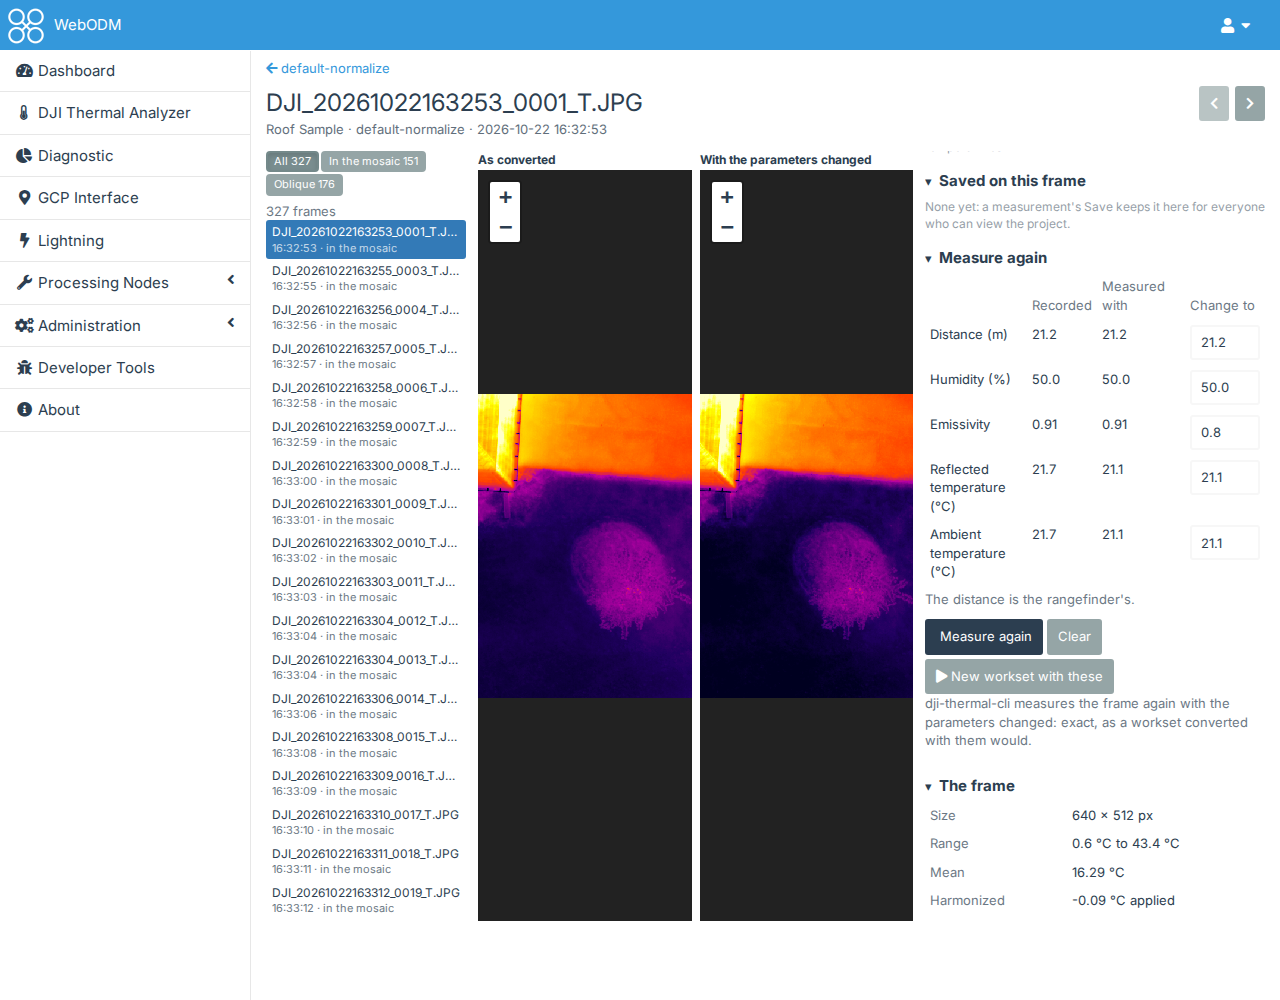
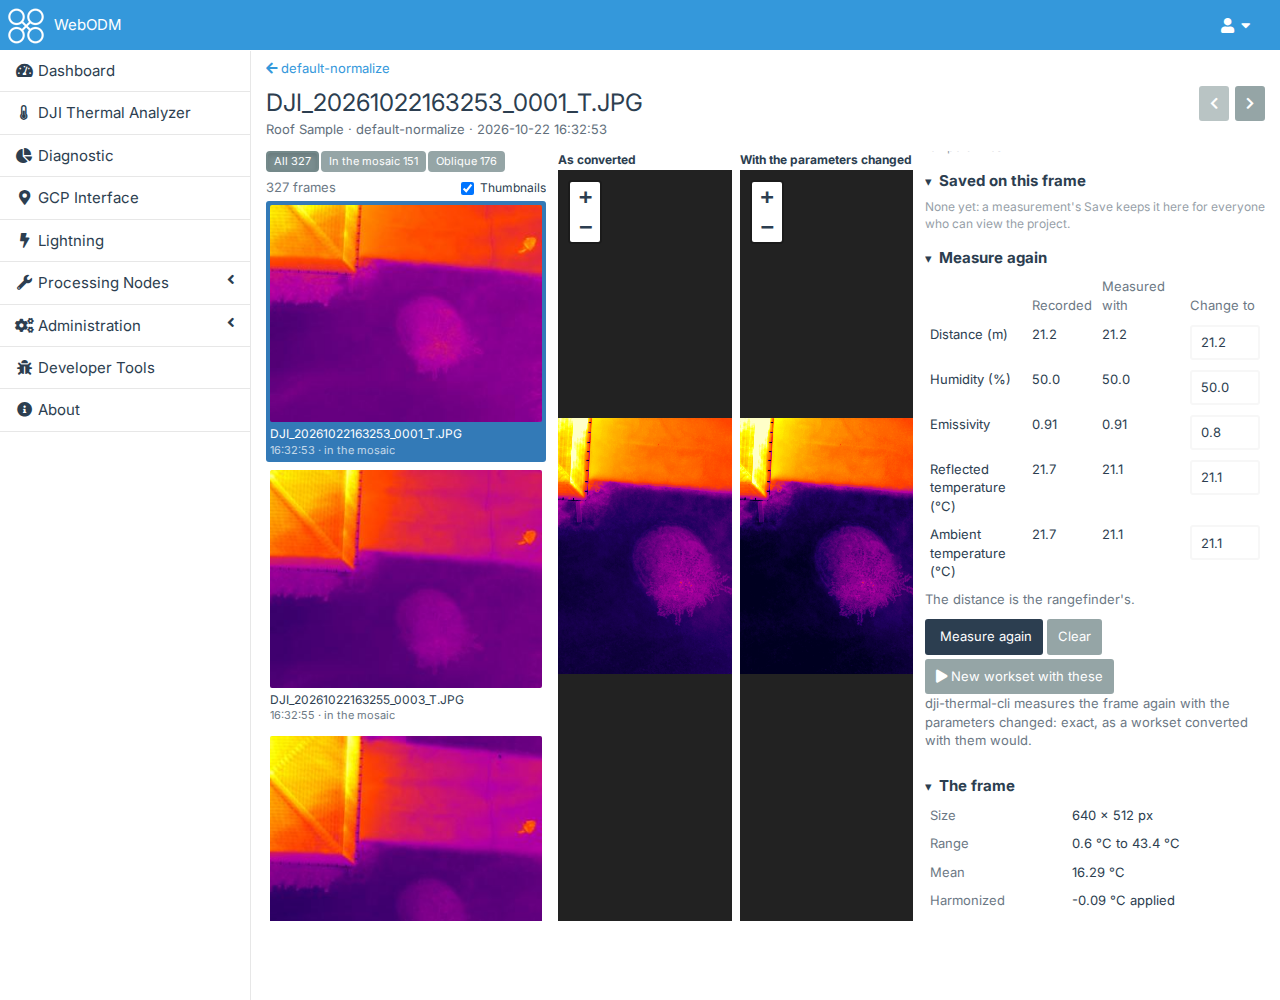
Frame page: large thumbnails in the frames list, with a Thumbnails box to list names only
The list beside the frame shows each frame's picture across a wider column (280 px), from the dataset's thumbnail
endpoint at a new list size (?size=list, up to 320 px, cached beside the others), in the user's preferred DJI
palette, else the frame's own picture; loaded as the list scrolls. The Thumbnails box, on by default, is remembered
per browser. README, the worksets quickstart, the API page and the frame page's screenshots.

Changed region(s): [[0.1875, 0.124, 0.7188, 0.93]]

diff --git a/dji-thermal/public/frame.js b/dji-thermal/public/frame.js
@@ -29,6 +29,7 @@
     var DISTANCE_SOURCES = {rangefinder: "the rangefinder's", embedded: "the one the frame records", option: "the workset's"};
     // The list's choices once the mosaics placed frames: all of them, those in the mosaic and those left out
     var LISTS = [["", "All"], ["mosaic", "In the mosaic"], ["oblique", "Oblique"]];
+    var THUMBS_KEY = "thermalAnalyzer.frameThumbnails";    // the list's Thumbnails box, remembered per browser ("0": off)
 
     function inMosaic(f) { return f.mosaic !== null && f.mosaic !== undefined; }
 
@@ -70,9 +71,17 @@
         return m ? m[1] + "-" + m[2] + "-" + m[3] + " " + m[4] : "";
     }
 
+    // The thumbnails' URL, followed by a frame's path: the dataset's thumbnail of it, at the list's size, in the
+    // user's preferred DJI palette when they have one (else its embedded picture); a workset's frames even in a
+    // dataset never analyzed
+    function thumbsUrl(api, dataset, cid, palette) {
+        return api + "datasets/" + dataset + "/thumbnail?workset=" + encodeURIComponent(cid) + "&size=list&" +
+            (palette ? "palette=" + encodeURIComponent(palette) + "&" : "") + "file=";
+    }
+
     // The list beside the frame: the switch between lists once the mosaics placed frames (sizes: each list's count),
-    // and the frames, the one shown marked
-    function listHtml(frames, current, list, sizes, maxPitch, built) {
+    // the Thumbnails box, and the frames, the one shown marked, each with its thumbnail when thumbs (their URL) is given
+    function listHtml(frames, current, list, sizes, maxPitch, built, thumbs) {
         var out = "";
         if (sizes) {
             out += '<div class="ta-frame-lists" role="group" aria-label="Which frames">' + LISTS.map(function (l, i) {
@@ -80,11 +89,14 @@
                     (list === l[0] ? ' aria-pressed="true"' : "") + (sizes[i] ? "" : " disabled") + ">" + esc(l[1]) + " " + sizes[i] + "</button>";
             }).join("") + "</div>";
         }
-        out += '<div class="ta-message">' + core.count(frames.length, "frame", "frames") + "</div>";
+        out += '<div class="ta-frame-list-head"><span class="ta-message">' + core.count(frames.length, "frame", "frames") + "</span>" +
+            '<label class="ta-frame-thumbs-box"><input type="checkbox" data-thumbs' + (thumbs ? " checked" : "") + "> Thumbnails</label></div>";
         return out + '<ol class="ta-frame-items">' + frames.map(function (f) {
             var tag = frameTag(f, list, maxPitch, built), about = [timeText(f.time).slice(11), tag].filter(Boolean).join(" · ");
             return '<li><button type="button" data-path="' + esc(f.path) + '" title="' + esc(f.path + (tag ? " (" + tag + ")" : "")) + '"' +
-                (f.path === current ? ' aria-current="true"' : "") + ">" + esc(fileName(f.path)) +
+                (f.path === current ? ' aria-current="true"' : "") + ">" +
+                (thumbs ? '<img class="ta-frame-thumb" loading="lazy" alt="" src="' + esc(thumbs + encodeURIComponent(f.path)) + '">' : "") +
+                esc(fileName(f.path)) +
                 (about ? '<span class="ta-frame-item-about">' + esc(about) + "</span>" : "") + "</button></li>";
         }).join("") + "</ol>";
     }
@@ -357,6 +369,8 @@
         var csrf = (page.querySelector("input[name=csrfmiddlewaretoken]") || {}).value;
         var asked = new root.URLSearchParams((ctx.location || {}).search || "");
         var meta = null, all = [], list = asked.get("list") || "", frame = null;
+        var thumbsOn = true;
+        try { thumbsOn = !root.localStorage || root.localStorage.getItem(THUMBS_KEY) !== "0"; } catch (e) { thumbsOn = true; }
         // The frame as converted and with the changes: figures (info) and values (tiles), each pane's
         var infos = [null, null], tiles = [null, null], changes = {}, typed = {}, changeError = null, withChanges = false;
         var style = null, L = null, maps = [null, null], canvases = [null, null], overlays = [null, null], fitted = false;
@@ -637,7 +651,9 @@
         function showList() {
             var frames = shown(), built = all.some(inMosaic);
             var sizes = built ? LISTS.map(function (l) { return listFrames(all, l[0]).length; }) : null;
-            $("ta-frame-list").innerHTML = listHtml(frames, frame, list, sizes, meta.max_pitch, meta.built);
+            var thumbs = thumbsOn ? thumbsUrl(page.getAttribute("data-api"), dataset, cid, core.preferences().palette) : null;
+            $("ta-frame-list").innerHTML = listHtml(frames, frame, list, sizes, meta.max_pitch, meta.built, thumbs);
+            $("ta-frame-list").classList.toggle("ta-frame-list-thumbs", !!thumbs);
             scrollList();
             var i = frames.map(function (f) { return f.path; }).indexOf(frame);
             $("ta-frame-prev").disabled = i <= 0;
@@ -762,7 +778,9 @@
                              restyle: function () { recolour(); remeasure(); },
                              // A palette is the user's, everywhere (DJI's keys carry the viewer's prefix)
                              onPalette: function (key) {
-                                 core.savePalette(fetchFn, page.getAttribute("data-api"), csrf, key.replace(/^dji_/, "")).catch(function () {});
+                                 // the list's thumbnails follow it
+                                 core.savePalette(fetchFn, page.getAttribute("data-api"), csrf, key.replace(/^dji_/, ""))
+                                     .then(function () { if (thumbsOn) showList(); }, function () {});
                              }});
 
         $("ta-frame-list").addEventListener("click", function (e) {
@@ -776,6 +794,12 @@
                 return showList();
             }
             if (b.hasAttribute("data-path")) choose(b.getAttribute("data-path"));
+        });
+        $("ta-frame-list").addEventListener("change", function (e) {
+            if (!e.target.hasAttribute("data-thumbs")) return;
+            thumbsOn = e.target.checked;
+            try { if (root.localStorage) root.localStorage.setItem(THUMBS_KEY, thumbsOn ? "1" : "0"); } catch (err) { /* not kept */ }
+            showList();
         });
 
         $("ta-frame-prev").addEventListener("click", function () { step(-1); });
@@ -883,7 +907,7 @@
     }
 
     var api = {CHANGES: CHANGES, listFrames: listFrames, frameTag: frameTag, changesQuery: changesQuery, frameApiUrl: frameApiUrl,
-               listHtml: listHtml, changeStarts: changeStarts, readChanges: readChanges, changesTyped: changesTyped,
+               listHtml: listHtml, thumbsUrl: thumbsUrl, changeStarts: changeStarts, readChanges: readChanges, changesTyped: changesTyped,
                newWorksetUrl: newWorksetUrl, paramsHtml: paramsHtml, infoHtml: infoHtml, valueAt: valueAt, readoutHtml: readoutHtml,
                downloadHtml: downloadHtml, canvasOverlay: canvasOverlay, timeText: timeText, toPixels: toPixels, circlePixels: circlePixels,
                isothermLimits: isothermLimits, changesText: changesText, measureHtml: measureHtml, savedHtml: savedHtml, init: init};

diff --git a/dji-thermal/public/__tests__/frame.test.js b/dji-thermal/public/__tests__/frame.test.js
@@ -220,6 +220,32 @@ describe("the frame page", () => {
         expect(history.replaceState).toHaveBeenLastCalledWith(null, "", "?frame=c_T.JPG");
     });
 
+    it("shows each listed frame's thumbnail in the preferred DJI palette, until the Thumbnails box is cleared, remembered", async () => {
+        core.setPreferences({palette: "ironred"});
+        await start();
+        const thumbs = Array.from(document.querySelectorAll("#ta-frame-list img.ta-frame-thumb"));
+        expect(thumbs.map(i => i.getAttribute("src"))).toEqual(["a_T.JPG", "sub/b_T.JPG", "c_T.JPG"].map(p =>
+            "/api/plugins/dji-thermal/datasets/d1/thumbnail?workset=c1&size=list&palette=ironred&file=" + encodeURIComponent(p)));
+        expect(thumbs[0].getAttribute("loading")).toBe("lazy");
+        expect($("ta-frame-list").classList.contains("ta-frame-list-thumbs")).toBe(true);
+        const box = document.querySelector("#ta-frame-list [data-thumbs]");
+        box.checked = false;
+        box.dispatchEvent(new Event("change", {bubbles: true}));
+        expect(document.querySelectorAll("#ta-frame-list img").length).toBe(0);
+        expect($("ta-frame-list").classList.contains("ta-frame-list-thumbs")).toBe(false);
+        expect(document.querySelector("#ta-frame-list [data-thumbs]").checked).toBe(false);
+        // Names only on the next visit too; without a preferred palette, each frame's embedded picture
+        core.setPreferences({palette: null});
+        document.body.innerHTML = page();
+        await start();
+        expect(document.querySelectorAll("#ta-frame-list img").length).toBe(0);
+        window.localStorage.clear();
+        document.body.innerHTML = page();
+        await start();
+        expect(document.querySelector("#ta-frame-list img").getAttribute("src")).toBe(
+            "/api/plugins/dji-thermal/datasets/d1/thumbnail?workset=c1&size=list&file=a_T.JPG");
+    });
+
     it("scrolls the list to the frame shown once the page shows it, centred, and leaves it when it's in view", async () => {
         // The list 100 px high; the frame shown 20 px high, 400 px down it, until scrolled
         const box = $("ta-frame-list");

diff --git a/dji-thermal/public/analyzer.css b/dji-thermal/public/analyzer.css
@@ -359,6 +359,15 @@
 .ta-frame .ta-frame-items button:hover{ background: rgba(128, 128, 128, .15); }
 .ta-frame .ta-frame-items button[aria-current=true]{ background: #337ab7; color: #fff; }
 .ta-frame .ta-frame-item-about{ display: block; opacity: .7; font-size: 11px; }
+/* With thumbnails: a wider list, each frame's picture across it (room kept for it before it loads, DJI's 640×512) */
+.ta-frame .ta-frame-list.ta-frame-list-thumbs{ flex-basis: 280px; }
+.ta-frame .ta-frame-list-head{ display: flex; align-items: center; justify-content: space-between; gap: 6px; margin-bottom: 4px; }
+.ta-frame .ta-frame-list-head .ta-message{ margin: 0; }
+.ta-frame .ta-frame-thumbs-box{ font-weight: normal; margin: 0; white-space: nowrap; }
+.ta-frame .ta-frame-thumbs-box input{ margin: 0 3px 0 0; vertical-align: middle; }
+.ta-frame .ta-frame-list-thumbs .ta-frame-items button{ padding: 4px; margin-bottom: 4px; }
+.ta-frame .ta-frame-thumb{ display: block; width: 100%; aspect-ratio: 5 / 4; object-fit: contain; margin-bottom: 3px;
+    background: rgba(128, 128, 128, .15); border-radius: 2px; }
 .ta-frame .ta-frame-download{ display: flex; flex-wrap: wrap; gap: 4px; margin-top: 6px; }
 .ta-frame .ta-frame-panes{ flex: 1 1 auto; min-width: 0; display: flex; gap: 8px; }
 .ta-frame .ta-frame-pane{ flex: 1 1 0; min-width: 0; display: flex; flex-direction: column; }
@@ -414,6 +423,8 @@
     .ta-frame .ta-frame-panes{ flex-direction: column; }
     .ta-frame .ta-frame-map{ height: 50vh; }
     .ta-frame .ta-frame-list{ flex-basis: auto; max-height: 30vh; }
+    .ta-frame .ta-frame-list.ta-frame-list-thumbs{ flex-basis: auto; }
+    .ta-frame .ta-frame-thumb{ max-width: 260px; }
 }
 .ta-viewer .ta-measurements-head{ display: flex; flex-wrap: wrap; align-items: center; gap: 4px; }
 .ta-viewer .ta-measurements-head > span:first-child{ margin-right: auto; }

diff --git a/dev/screenshots.js b/dev/screenshots.js
@@ -373,6 +373,9 @@ async function openFrame(p, env) {
     const conversion = (list.conversions || list)[0];
     await p.goto(env.url + "/plugins/dji-thermal/dataset/" + dataset + "/conversion/" + conversion.id + "/frame");
     await p.waitForSelector("#ta-frame-map-0 canvas", {timeout: 60000});
+    // The list's first thumbnails drawn (the server makes each once)
+    await p.waitForFunction(() => Array.from(document.querySelectorAll("#ta-frame-list img")).slice(0, 3)
+        .every(i => i.complete), null, {timeout: 60000}).catch(() => {});
     await p.waitForTimeout(2000);
 }
 

diff --git a/dji-thermal/analyzer_api.py b/dji-thermal/analyzer_api.py
@@ -36,6 +36,8 @@ from . import (analysis, conversion_tasks, conversions, converter, correction, d
 
 THUMBNAIL_SIZE = (96, 96)
 LARGE_SIZE = (1280, 1280)      # the Files tab's detail pane (?size=large): a frame at its own size, up to this
+LIST_SIZE = (320, 320)         # the frame page's list (?size=list), shown about 260 pixels wide
+SIZES = {'large': LARGE_SIZE, 'list': LIST_SIZE}
 THUMBNAILS_DIR = 'thumbnails'
 OVER_QUOTA = "The project's owner is over their storage quota: free some space first"
 
@@ -378,7 +380,8 @@ class DatasetThumbnail(DatasetView):
     def get(self, request, pk):
         """A small JPEG of one of the files its analysis lists (?file=), for the Files tab: its embedded picture, or a
         thermal frame's temperatures in one of DJI's palettes (?palette=, the user's preferred), cached in the dataset;
-        with ?size=large, at the file's own size (up to LARGE_SIZE), for the detail pane; with ?workset=, also a frame
+        with ?size=large, at the file's own size (up to LARGE_SIZE), for the detail pane, with ?size=list, up to
+        LIST_SIZE, for the frame page's list; with ?workset=, also a frame
         that workset converted (a dataset never analyzed has its frames' thumbnails in the workset's Files)"""
         from PIL import Image
         task = get_dataset(request, pk)
@@ -390,7 +393,7 @@ class DatasetThumbnail(DatasetView):
             kinds[rel] = 'thermal'
         path = dataset_file(task, rel, kinds)
         palette = request.query_params.get('palette') or ""
-        size = LARGE_SIZE if request.query_params.get('size') == 'large' else THUMBNAIL_SIZE
+        size = SIZES.get(request.query_params.get('size'), THUMBNAIL_SIZE)
         if size == LARGE_SIZE and palette not in conversions.palettes():
             # The detail pane draws a frame in the palette it was shot in when the user's isn't one of DJI's
             palette = next((r.get('palette') for r in datasets.analysis(task).get('files') or [] if r.get('path') == rel), "") or ""
@@ -458,7 +461,7 @@ def palette_thumbnail(task, path, palette, size=THUMBNAIL_SIZE):
         return None
     im.thumbnail(size)
     out = io.BytesIO()
-    im.save(out, 'JPEG', quality=75 if size == THUMBNAIL_SIZE else 90)
+    im.save(out, 'JPEG', quality=90 if size == LARGE_SIZE else 75)
     os.makedirs(os.path.dirname(cached), exist_ok=True)
     with open(cached + '.part', 'wb') as f:
         f.write(out.getvalue())

diff --git a/dji-thermal/tests/test_analyzer.py b/dji-thermal/tests/test_analyzer.py
@@ -313,6 +313,11 @@ class TestAnalysis(AnalyzerTestCase):
         self.assertEqual(len(os.listdir(datasets.data_path(task, "thumbnails", "rainbow1"))), 1)
         again = self.client.get("{}/{}/thumbnail".format(API, task.id), {"file": row["path"], "palette": "rainbow1"})
         self.assertEqual(again.content, drawn.content)
+        # The frame page's list: larger, kept beside the small one
+        listed = self.client.get("{}/{}/thumbnail".format(API, task.id), {"file": row["path"], "palette": "rainbow1", "size": "list"})
+        with Image.open(io.BytesIO(listed.content)) as im:
+            self.assertEqual(max(im.size), min(analyzer_api.LIST_SIZE[0], max(row["width"], row["height"])))
+        self.assertEqual(len(os.listdir(datasets.data_path(task, "thumbnails", "rainbow1"))), 2)
         # The detail pane's: at the frame's own size, in its own DJI palette when the user's is one of WebODM's
         large = self.client.get("{}/{}/thumbnail".format(API, task.id), {"file": row["path"], "palette": "magma", "size": "large"})
         own = self.client.get("{}/{}/thumbnail".format(API, task.id), {"file": row["path"], "palette": row["palette"], "size": "large"})

diff --git a/docs/api.md b/docs/api.md
@@ -29,7 +29,7 @@ workset's id (12 hexadecimal characters).
 | POST | `datasets/<dataset>/analyze`, `.../cancel` | Starts the analysis; cancels the running job. |
 | POST | `datasets/<dataset>/remove` | Deletes images from the dataset (`files`: their paths), and from each converted workset that has them (as its `remove`), and drops them from the analysis' `files`, which is kept but no longer matches the images (`status` back to `new`). Answers the dataset, with `files_removed`. Refused while it is analyzed or a workset converts or builds its mosaics, and when a workset would be left without a converted frame. |
 | GET, POST | `datasets/<dataset>/files` | One file as uploaded (`?file=`, `&download=1` to download); several files as a zip. |
-| GET | `datasets/<dataset>/thumbnail` | A file's thumbnail (`?file=`, `?palette=`, `?size=large` for the detail pane; `?workset=` also for a frame that workset converted, in a dataset not analyzed). |
+| GET | `datasets/<dataset>/thumbnail` | A file's thumbnail (`?file=`, `?palette=`, `?size=large` for the detail pane, `?size=list` for the frame page's list; `?workset=` also for a frame that workset converted, in a dataset not analyzed). |
 | GET, POST | `datasets/<dataset>/conversions` | The worksets, each with how many images it `converted`, left out as `oblique`, found `not_thermal` and `skipped` (failed), and while it converts its `progress`, harmonizing `stage` (`stage`, `step`, `steps`, `fraction`) and `frames` (`done`, `total`: the frames to convert, thermal and within the pitch limit); a new workset from settings. |
 | GET, PATCH, DELETE | `datasets/<dataset>/conversions/<workset>` | A workset, with each frame's `figures` (`min`, `max`, `mean`, `reflected`, `ambient` in °C, `emissivity`, `humidity`, `distance`, `distance_source`, as it measured them) and how far measuring them is (`figures_status`, `figures_progress`, `figures_error`; a workset converted before they were measured starts measuring them); rename it; delete it. |
 | POST | `.../conversions/<workset>/figures` | Measures its frames' figures again. |

diff --git a/README.md b/README.md
@@ -284,8 +284,9 @@ One frame of a workset at a time, as the workset measured it, opened from the fr
 in the mosaic viewer and the Thermal Inspector) or from the Files tab (a thermal frame's name, or **Open frame** in
 its detail pane: the frame page of the newest workset that converted):
 
-- the dataset's thermal frames listed beside it in the order they were taken, the one shown marked and scrolled into
-  view, stepped through with ← and → (or the arrows at the top); once the mosaics are built, **All**, **In the
+- the dataset's thermal frames listed beside it in the order they were taken, each with a large thumbnail (in your
+  preferred DJI palette, else the frame's own picture; **Thumbnails** clear lists the names only, remembered in your
+  browser), the one shown marked and scrolled into view, stepped through with ← and → (or the arrows at the top); once the mosaics are built, **All**, **In the
   mosaic** (where a frame opened from a mosaic starts) or **Oblique** (those the mosaics left out, and why); the
   frame and the list are in the page's address, to link to;
 - the frame, zoomed and moved like a map, coloured in your browser from its temperatures with the mosaic viewer's

diff --git a/docs/quickstart-worksets.md b/docs/quickstart-worksets.md
@@ -113,8 +113,9 @@ closed, it goes back to its corner:
 ### One frame at a time
 
 **Open this frame**, under the frame in that window, opens it on the frame page in a new tab (a thermal frame's
-name on the Files tab opens it too). The frames are listed on the left in the order they were taken, the one shown
-highlighted and scrolled into view; click one, or step with ← and →. Once the mosaics are built, **All**, **In the
+name on the Files tab opens it too). The frames are listed on the left in the order they were taken, each with its
+thumbnail (in your preferred DJI palette, else the frame's own picture: clear **Thumbnails** for the names only),
+the one shown highlighted and scrolled into view; click one, or step with ← and →. Once the mosaics are built, **All**, **In the
 mosaic** and **Oblique** choose which are listed; a frame opened from a mosaic lists those in the mosaic.
 The panel has the same palette, range, **Image** and **Isotherm** as the mosaic viewer, and the temperature under the
 cursor.
